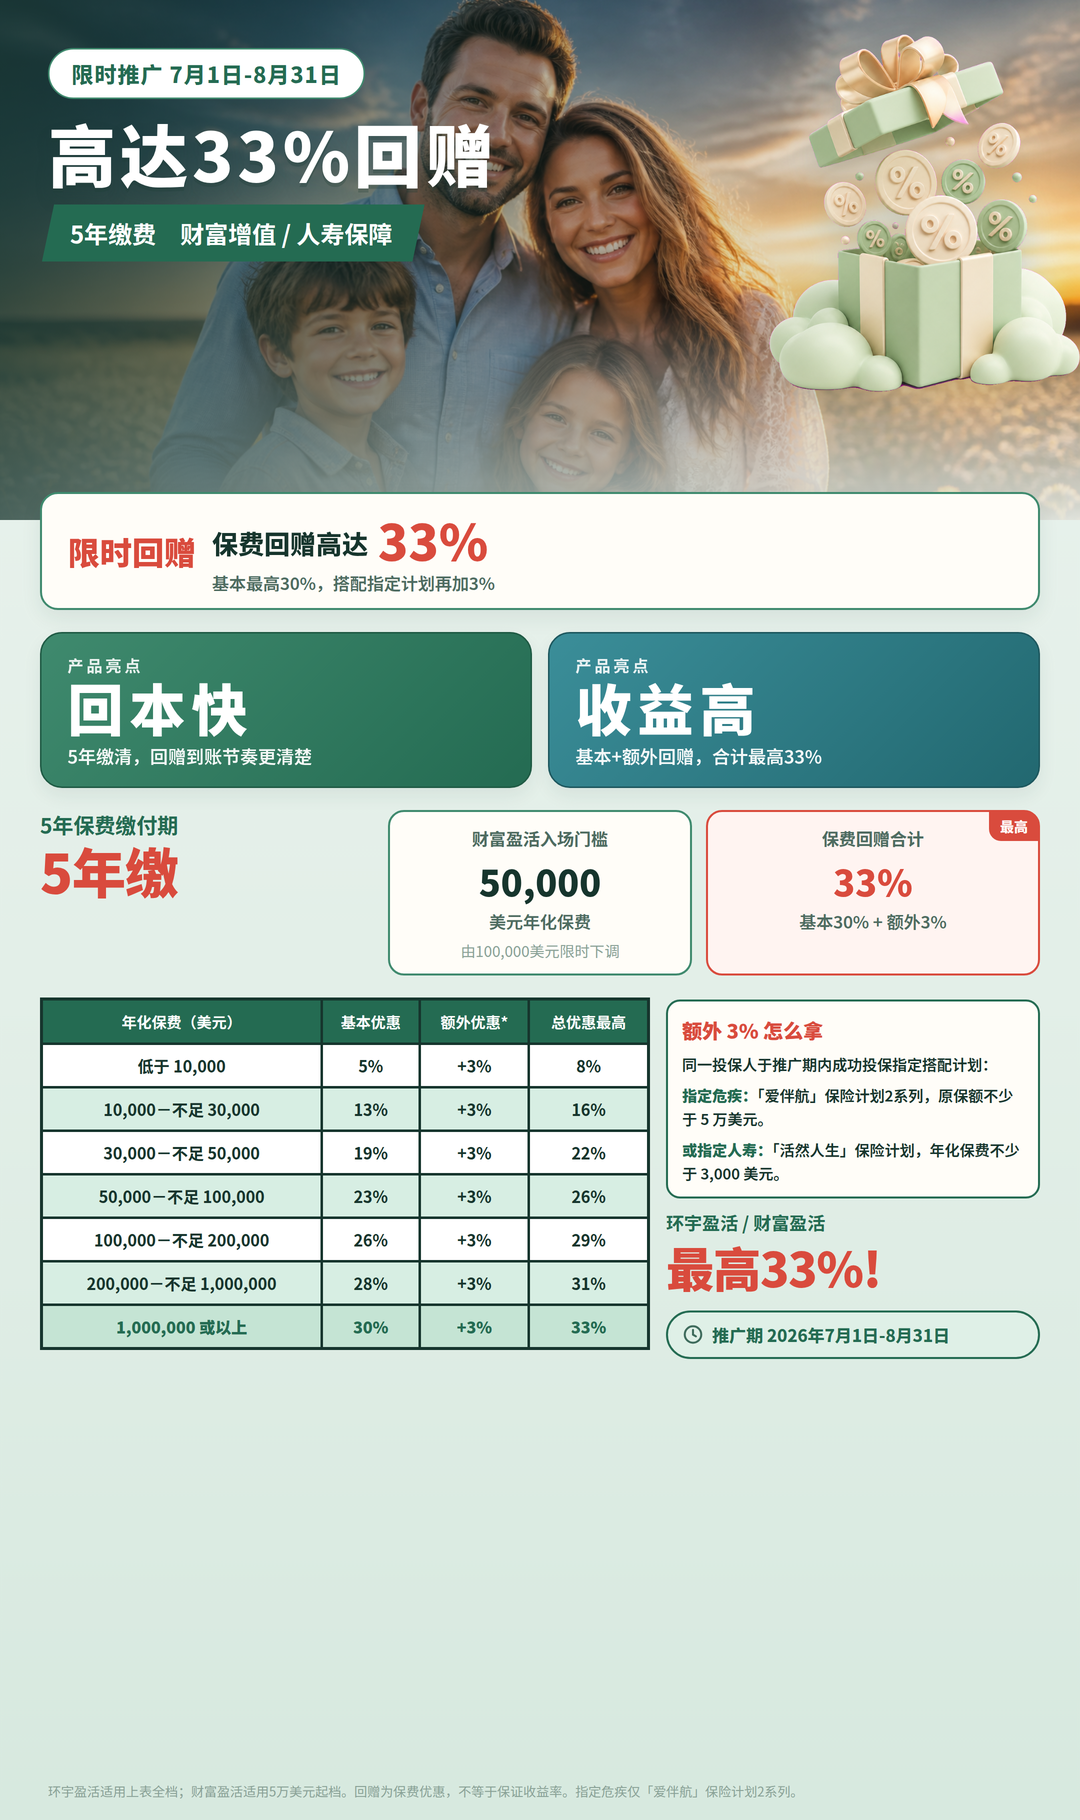
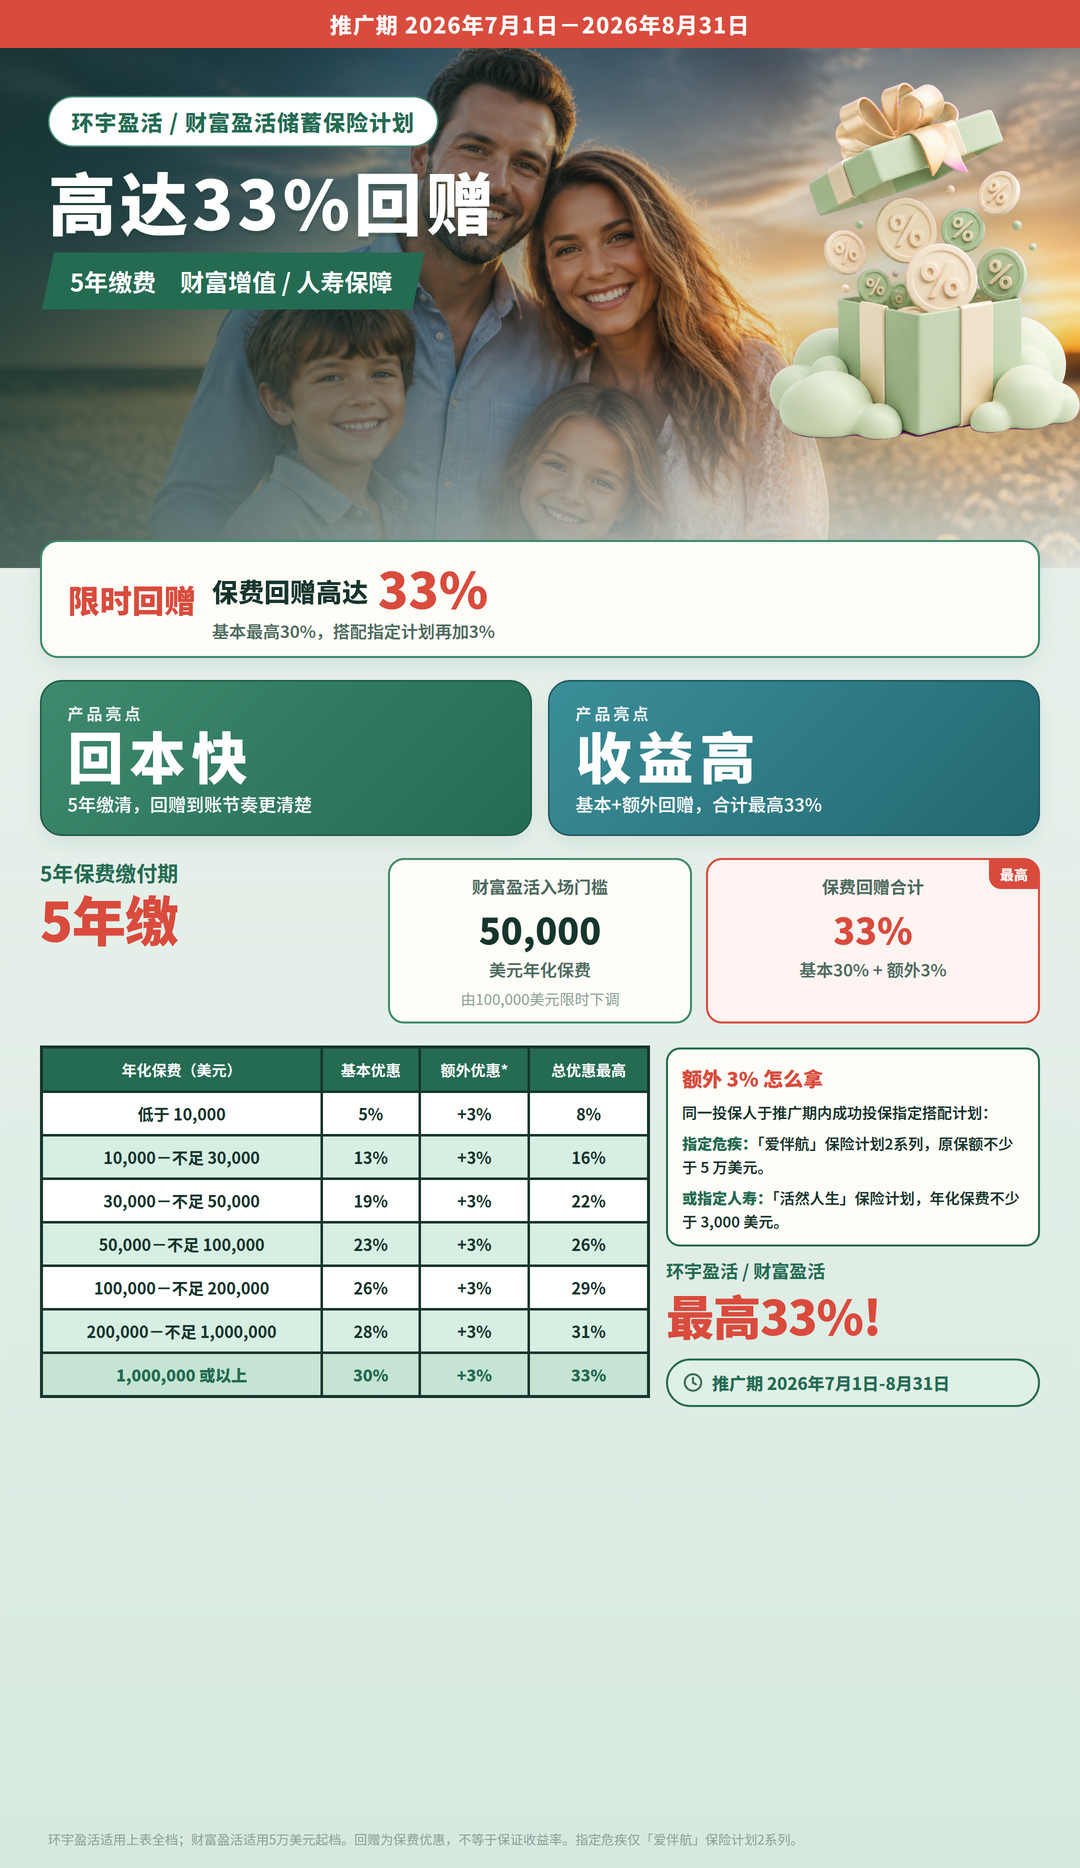
Add promo date bar and product names to rebate poster
Finish the savings rebate flyer with the campaign window, 环宇盈活/财富盈活 titles, and the extra 3% terms that keep only 爱伴航保险计划2系列.

diff --git a/design/poster/index.html b/design/poster/index.html
@@ -33,12 +33,26 @@
 
     .poster {
       width: 1080px;
-      height: 1820px;
+      height: 1868px;
       overflow: hidden;
       position: relative;
       font-family: "Noto Sans SC", "WenQuanYi Micro Hei", sans-serif;
       color: var(--ink);
       background: linear-gradient(180deg, #eaf3ee 0%, #e3efe8 55%, #d7e9df 100%);
+    }
+
+    .topbar {
+      height: 48px;
+      background: var(--coral);
+      color: #fff;
+      font-size: 22px;
+      font-weight: 800;
+      display: flex;
+      align-items: center;
+      justify-content: center;
+      letter-spacing: 1px;
+      position: relative;
+      z-index: 5;
     }
 
     .header {
@@ -368,11 +382,12 @@
 </head>
 <body>
   <article class="poster">
+    <div class="topbar">推广期 2026年7月1日－2026年8月31日</div>
     <header class="header">
       <div class="header-photo"></div>
       <img class="gift" src="./assets/gift-box.png" alt="" />
       <div class="header-inner">
-        <div class="badge">限时推广 7月1日-8月31日</div>
+        <div class="badge">环宇盈活 / 财富盈活储蓄保险计划</div>
         <h1>高达33%回赠</h1>
         <div class="ribbon"><span>5年缴费　财富增值 / 人寿保障</span></div>
       </div>
